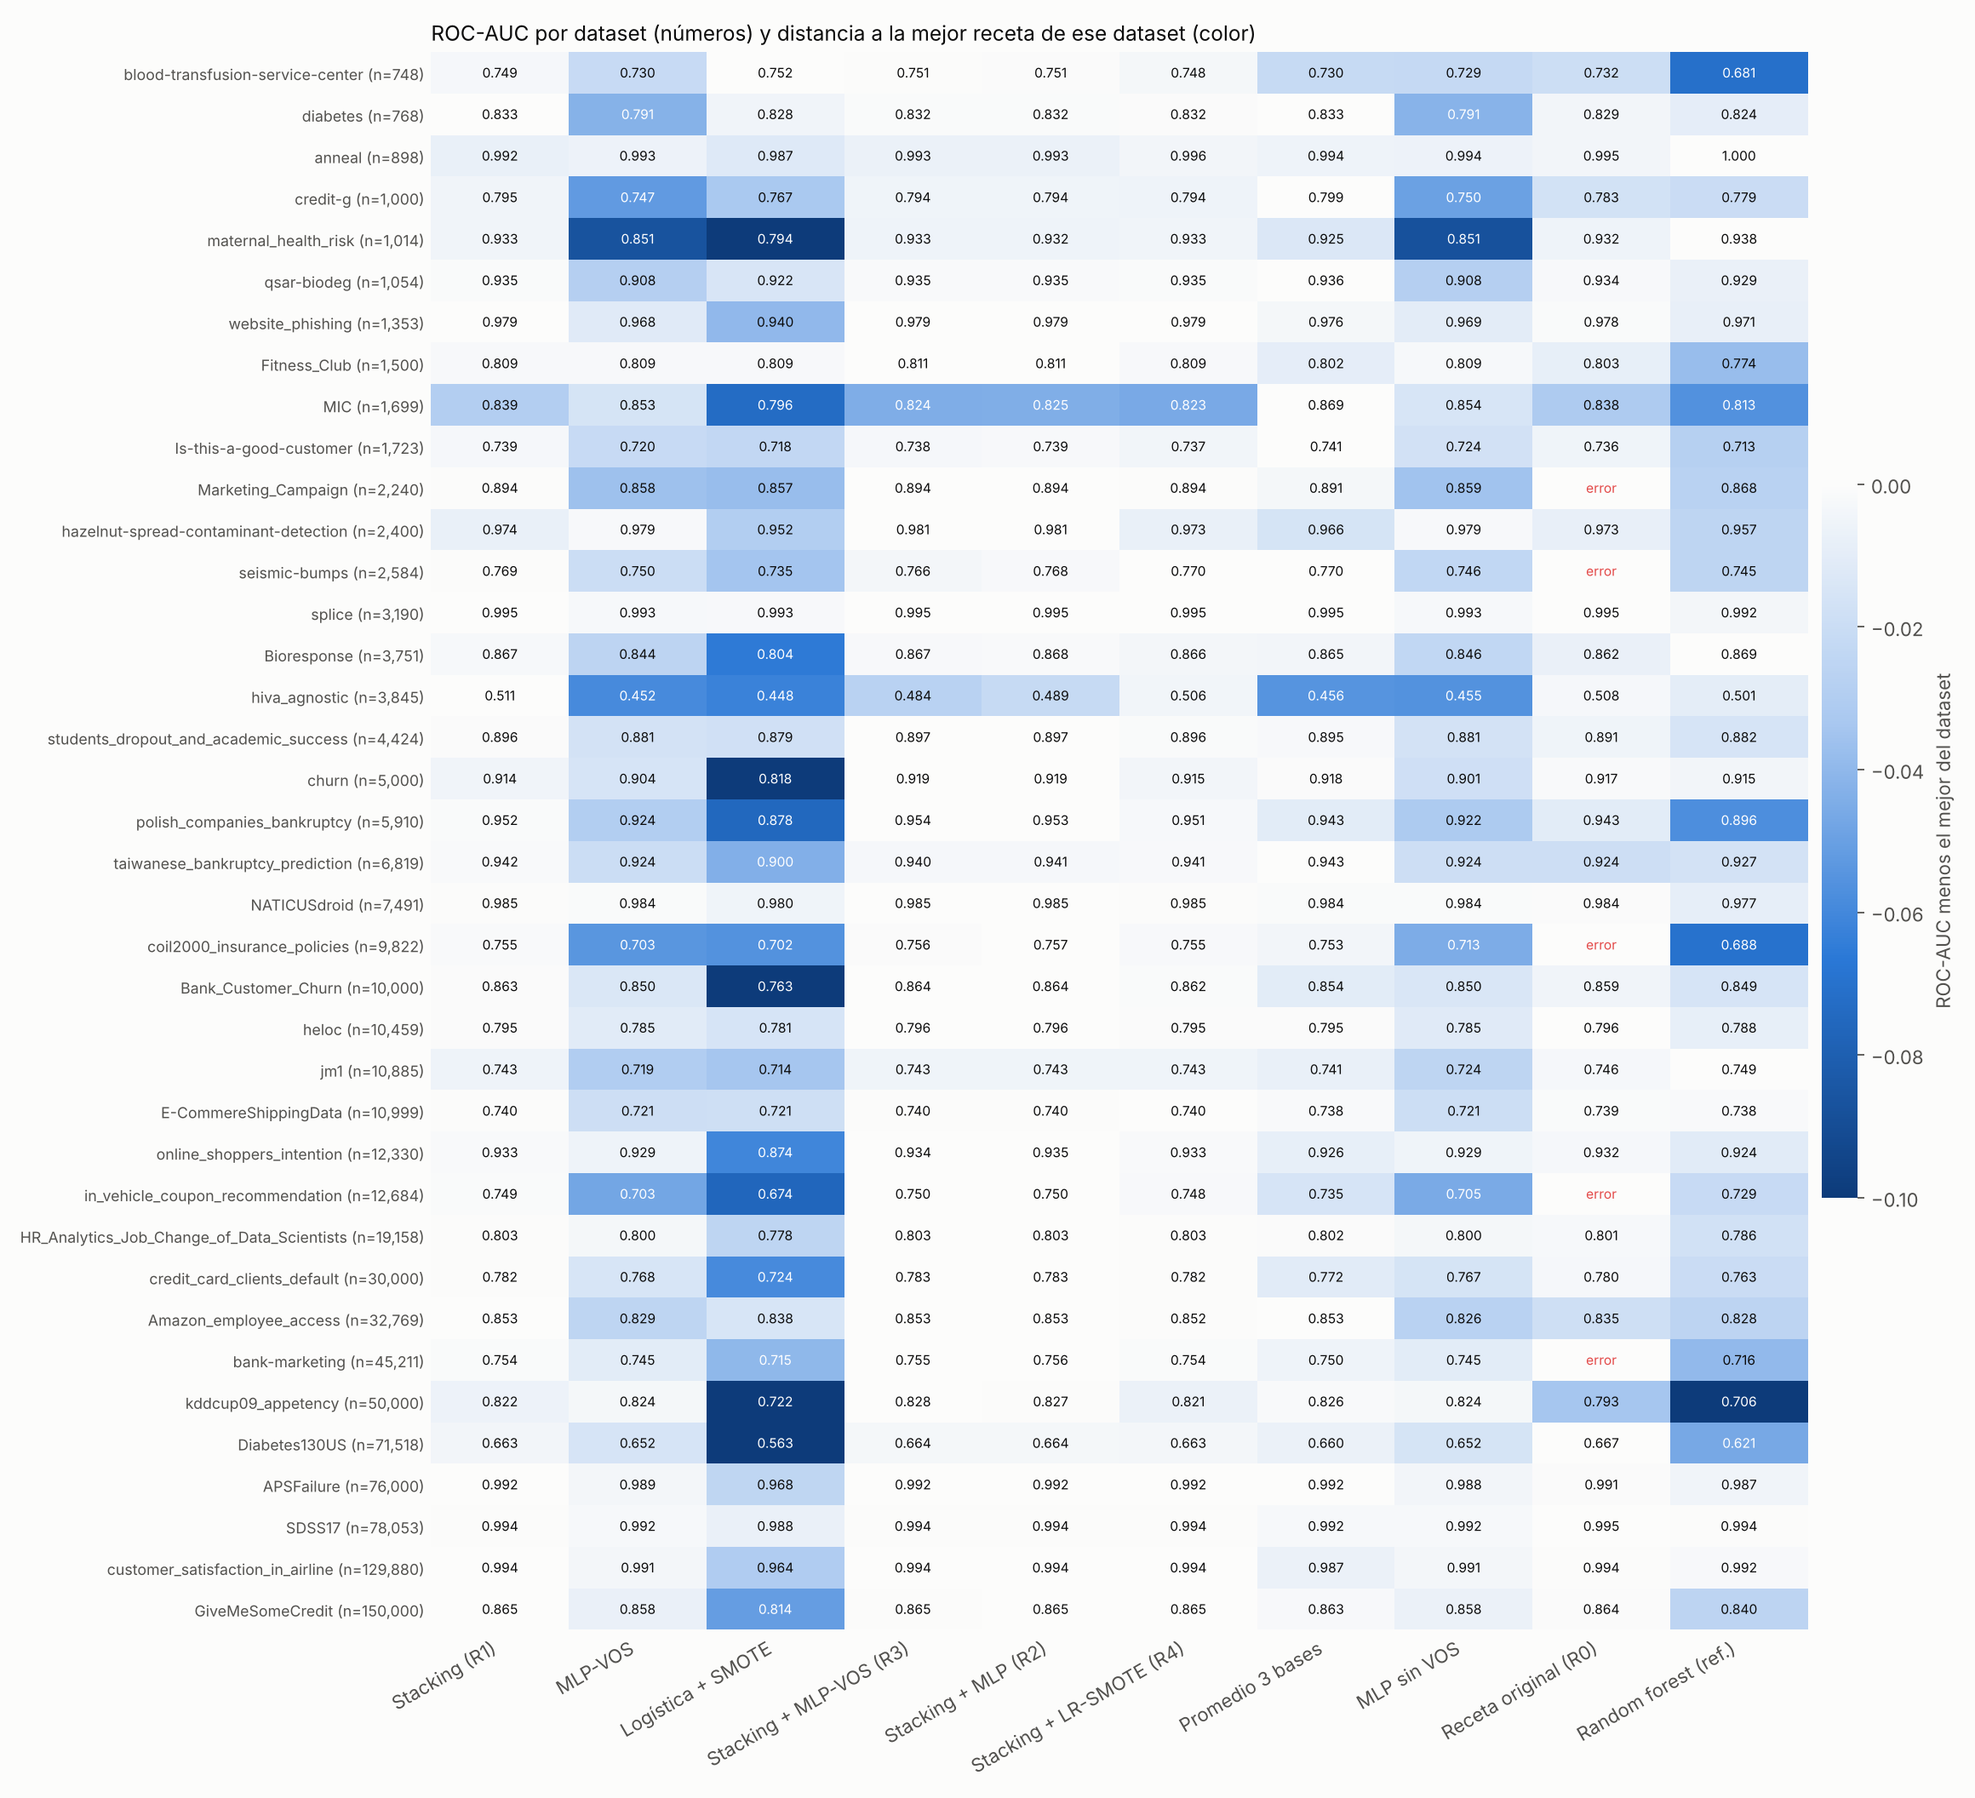
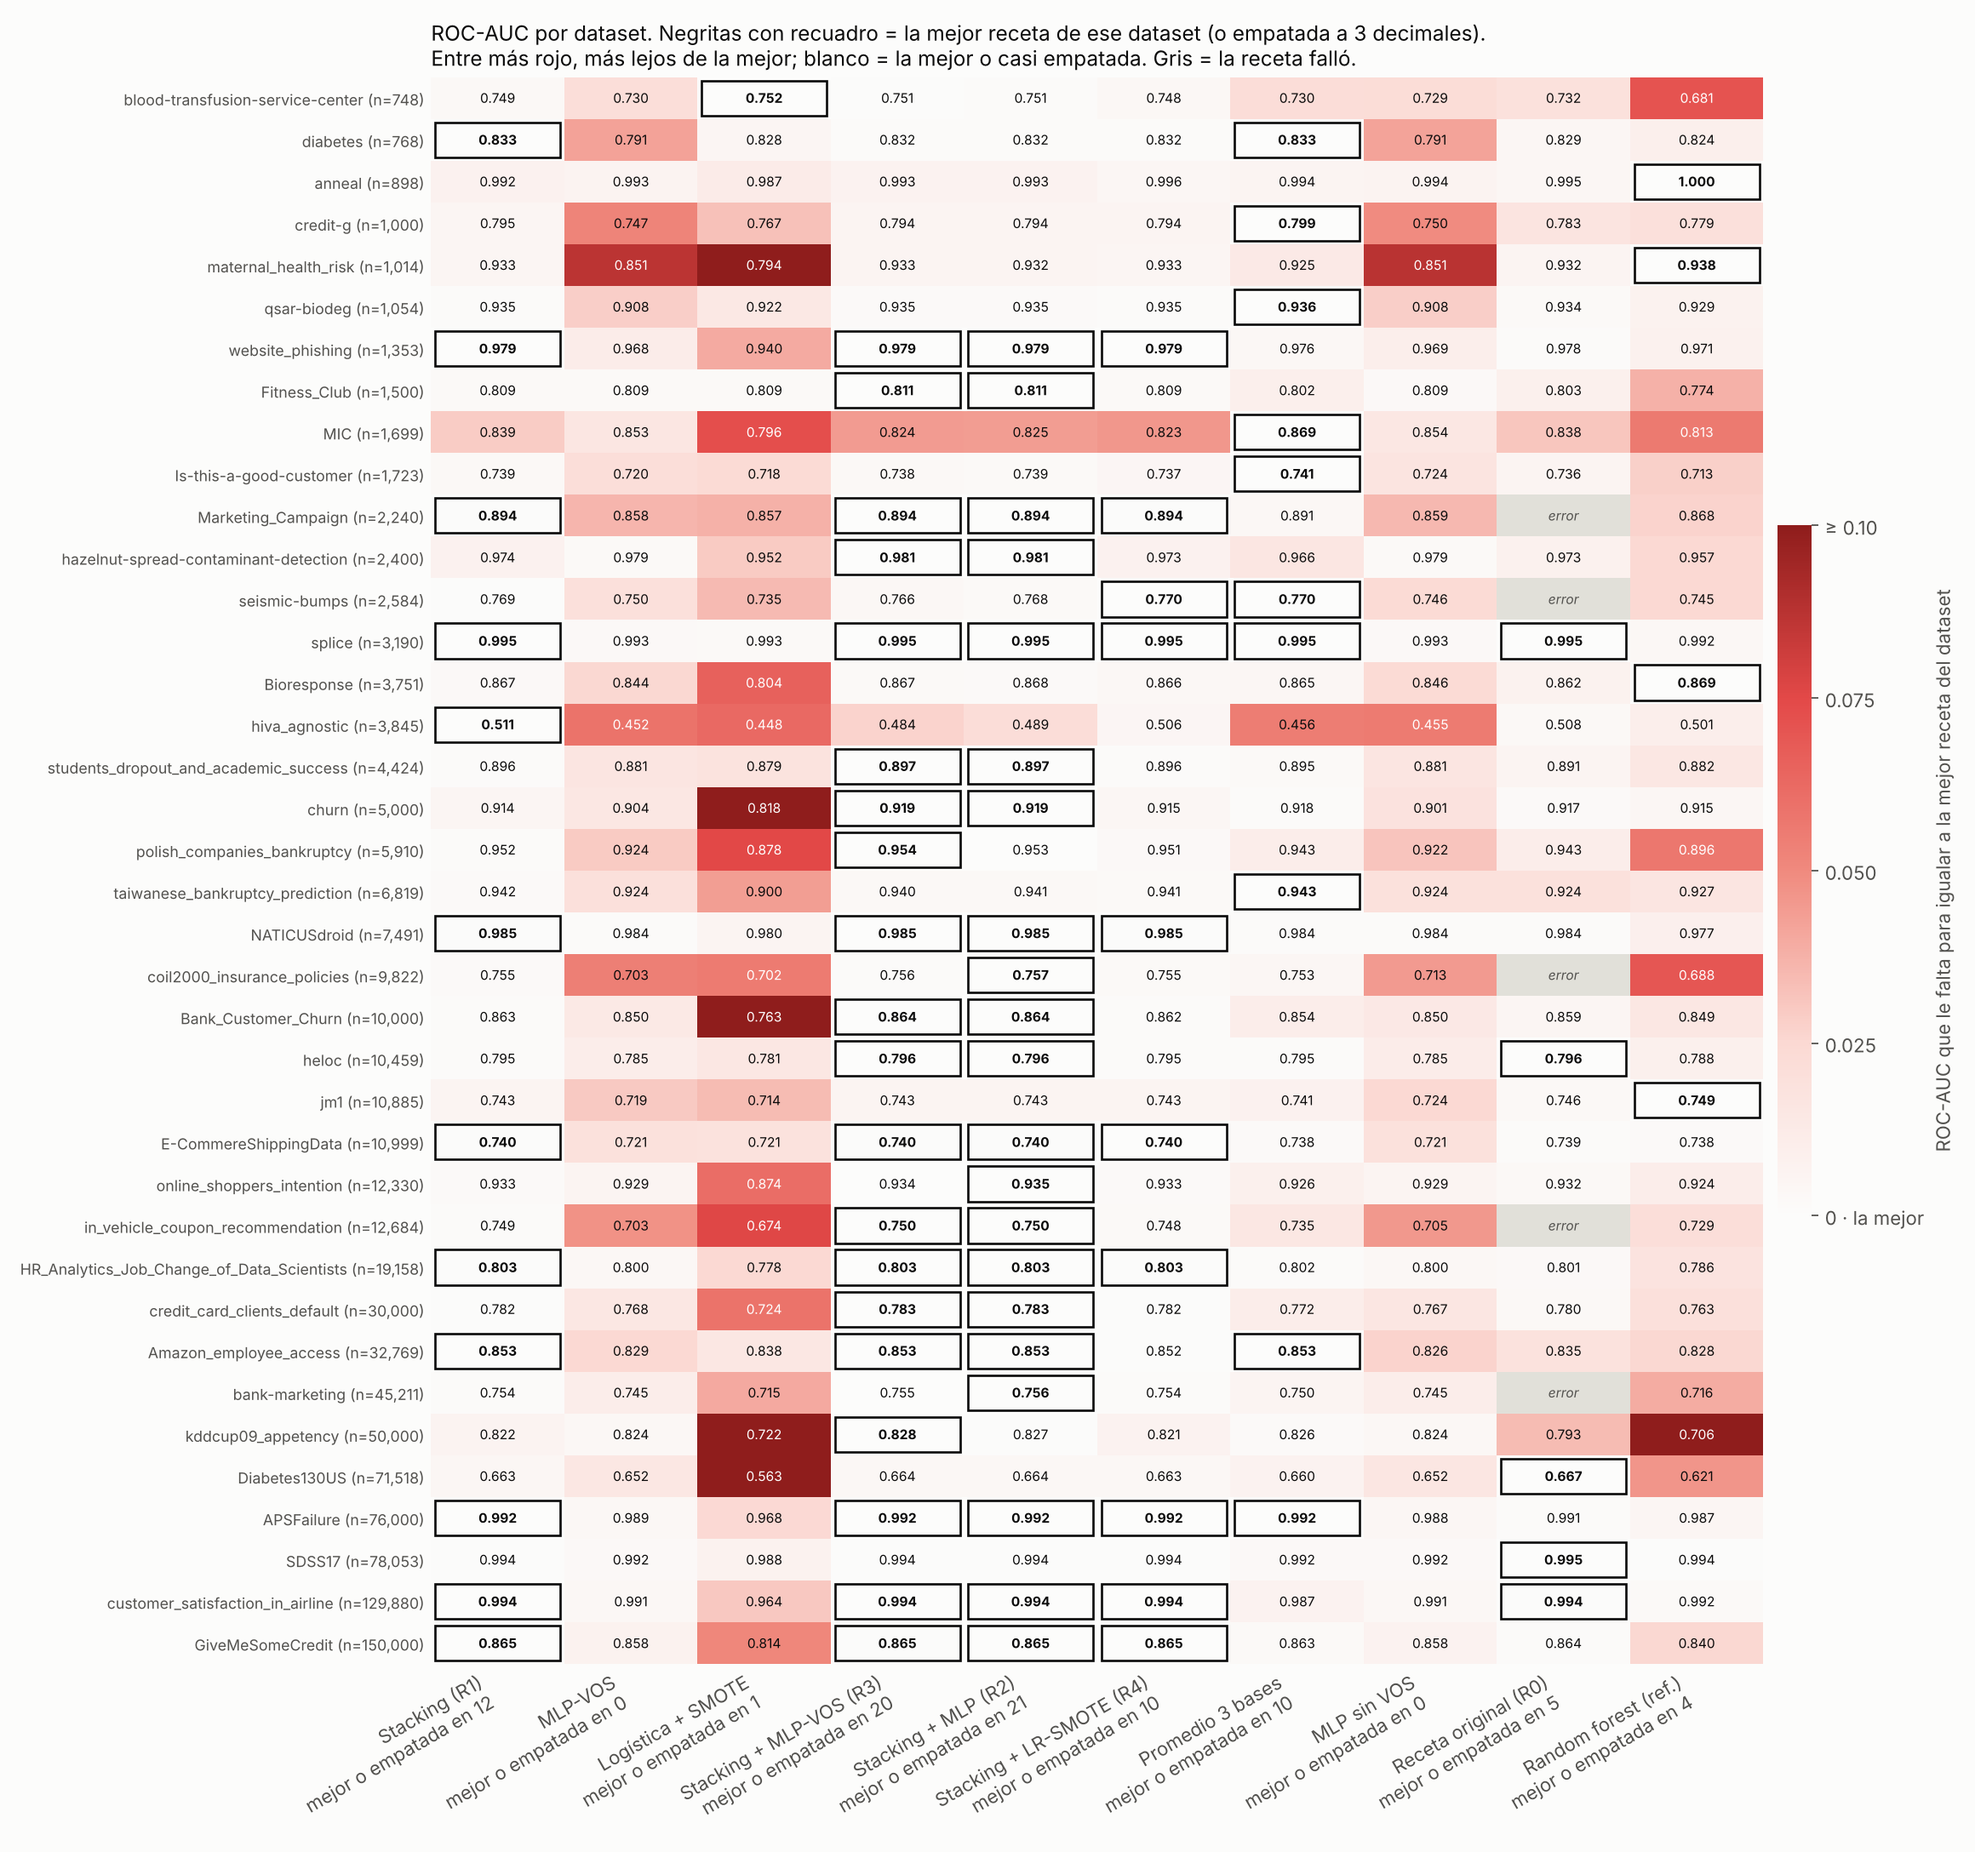
Mapa de AUC por dataset más fácil de leer
- Blanco = la mejor receta del dataset, más rojo = más lejos de la mejor (antes azul oscuro se leía como 'mejor')
- La mejor de cada dataset (empates a 3 decimales) en negritas con recuadro; conteo por receta en el eje
- Fallas en gris con 'error'

Claude-Session: https://claude.ai/code/session_01KVZjfwfMtFZfbFc4CvTnoZ

diff --git a/bench/aggregate.py b/bench/aggregate.py
@@ -170,35 +170,45 @@ def charts(rec, pdd, variants, out):
     labels = [LABEL.get(v, v) for v in variants]
     bar_panels(plt, rec, variants, out / "resumen_recetas.png")
 
-    # AUC por dataset: diferencia contra la mejor receta de ese dataset (0 = la mejor)
+    # AUC por dataset. Color = cuánto le falta a la mejor receta de ese dataset: claro = la mejor, rojo = lejos.
+    # La mejor de cada dataset (o las empatadas a 3 decimales) va en negritas y con recuadro.
+    from matplotlib.colors import LinearSegmentedColormap
+    from matplotlib.patches import Rectangle
     M = pdd.pivot(index="dataset", columns="variant", values="auc")[variants]
     order = pdd.drop_duplicates("dataset").set_index("dataset").loc[M.index].sort_values("n").index
     M = M.loc[order]
     G = M.sub(M.max(axis=1), axis=0)
-    fig, ax = plt.subplots(figsize=(1.05 * len(variants) + 4, 0.3 * len(M) + 1.8))
-    from matplotlib.colors import LinearSegmentedColormap
-    cmap = LinearSegmentedColormap.from_list("gap", ["#0d3b7a", "#2a78d6", "#a9c8f0", surf])
-    vmin = min(-0.05, float(np.nanmin(G.to_numpy())))
-    im = ax.imshow(G.to_numpy(), aspect="auto", cmap=cmap, vmin=max(vmin, -0.1), vmax=0)
+    R = M.round(3).to_numpy()
+    best = R == np.nanmax(R, axis=1, keepdims=True)    # igual que los números que se muestran
+    worst = 0.10
+    cmap = LinearSegmentedColormap.from_list("falta", [surf, "#fbd9d3", "#f08a7e", RED, "#8f1d1c"])
+    cmap.set_bad(GRID)
+    fig, ax = plt.subplots(figsize=(1.05 * len(variants) + 4, 0.3 * len(M) + 2.2))
+    im = ax.imshow(-G.to_numpy(), aspect="auto", cmap=cmap, vmin=0, vmax=worst)
     for i in range(M.shape[0]):
         for j in range(M.shape[1]):
             v = M.iat[i, j]
             if np.isnan(v):
-                ax.text(j, i, "error", ha="center", va="center", fontsize=7, color="#e34948")
+                ax.text(j, i, "error", ha="center", va="center", fontsize=7, color=ink2, style="italic")
                 continue
-            dark = G.iat[i, j] < -0.04
-            ax.text(j, i, f"{v:.3f}", ha="center", va="center", fontsize=7, color="#ffffff" if dark else ink)
+            if best[i, j]:
+                ax.add_patch(Rectangle((j - 0.47, i - 0.42), 0.94, 0.84, fill=False, edgecolor=ink, linewidth=1.2))
+            ax.text(j, i, f"{v:.3f}", ha="center", va="center", fontsize=7,
+                    color="#ffffff" if -G.iat[i, j] > 0.055 else ink, fontweight="bold" if best[i, j] else "normal")
+    wins = np.nan_to_num(best, nan=False).sum(axis=0)
     ax.set_xticks(range(len(variants)))
-    ax.set_xticklabels(labels, rotation=30, ha="right", color=ink2)
+    ax.set_xticklabels([f"{lab}\nmejor o empatada en {int(w)}" for lab, w in zip(labels, wins)], rotation=30, ha="right", color=ink2)
     ax.set_yticks(range(len(M)))
     ax.set_yticklabels([f"{d} (n={int(pdd[pdd.dataset == d].n.iloc[0]):,})" for d in M.index], fontsize=8)
     ax.tick_params(length=0)
-    for s in ax.spines.values():
-        s.set_visible(False)
-    cb = fig.colorbar(im, ax=ax, fraction=0.025, pad=0.01)
-    cb.set_label("ROC-AUC menos el mejor del dataset", color=ink2)
+    for sp in ax.spines.values():
+        sp.set_visible(False)
+    cb = fig.colorbar(im, ax=ax, fraction=0.025, pad=0.01, ticks=[0, 0.025, 0.05, 0.075, worst])
+    cb.ax.set_yticklabels(["0 · la mejor", "0.025", "0.050", "0.075", f"≥ {worst:.2f}"])
+    cb.set_label("ROC-AUC que le falta para igualar a la mejor receta del dataset", color=ink2)
     cb.outline.set_visible(False)
-    ax.set_title("ROC-AUC por dataset (números) y distancia a la mejor receta de ese dataset (color)",
+    ax.set_title("ROC-AUC por dataset. Negritas con recuadro = la mejor receta de ese dataset (o empatada a 3 decimales).\n"
+                 "Entre más rojo, más lejos de la mejor; blanco = la mejor o casi empatada. Gris = la receta falló.",
                  color=ink, fontsize=11, loc="left")
     fig.tight_layout()
     fig.savefig(out / "auc_por_dataset.png", dpi=160)

diff --git a/BENCHMARK.md b/BENCHMARK.md
@@ -90,7 +90,7 @@ Genera en `results/`:
 | `por_dataset.csv` | Por receta y dataset: ROC-AUC, tamaño de pickle y tiempo de fit (promedio de sus particiones) |
 | `por_receta.csv` | El promedio de esas tres métricas por receta |
 | `resumen_recetas.png` | Gráfica de AUC, fit y pickle por receta |
-| `auc_por_dataset.png` | Mapa de calor de AUC por dataset y receta |
+| `auc_por_dataset.png` | AUC por dataset y receta: la mejor de cada dataset en negritas con recuadro; entre más rojo, más lejos de la mejor |
 | `nuevas_recetas.png` | **Aparte:** AUC, fit y pickle de kNN y ExtraTrees (azul) frente a R1, LR-SMOTE y RF (gris) |
 | `efecto_smote_y_pesos.png` | **Aparte:** diferencia de ROC-AUC por dataset de KNN-SMOTE − KNN y ET-BAL − ET, con media, IC 95 % y gana–pierde |
 
